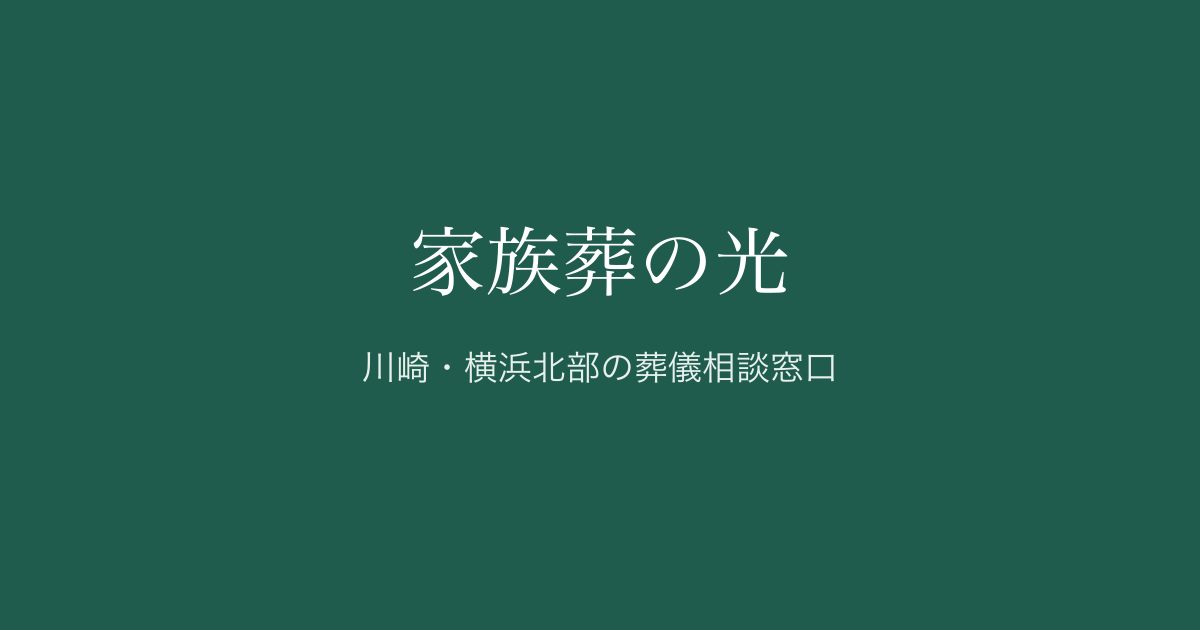
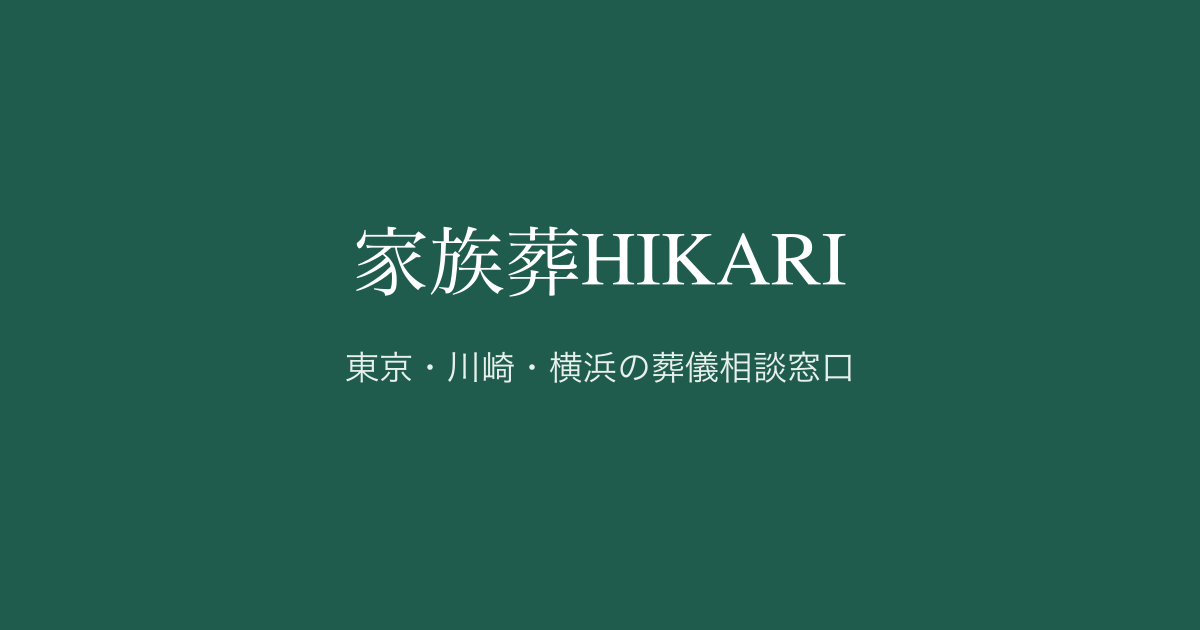
葬儀LPプレビュー更新: 屋号を家族葬HIKARIに変更（タイトル・ヘッダー・フッター・プライバシー・OGP画像）、FVバッジのスマホ改行崩れを修正

Changed region(s): [[0.2775, 0.3619, 0.7092, 0.4825], [0.2775, 0.5429, 0.7092, 0.6032]]

diff --git a/index.html b/index.html
@@ -3,11 +3,11 @@
 <head>
 <meta charset="UTF-8">
 <meta name="viewport" content="width=device-width, initial-scale=1.0">
-<title>東京・川崎・横浜の葬儀相談窓口｜家族葬光（24時間対応）</title>
+<title>東京・川崎・横浜の葬儀相談窓口｜家族葬HIKARI（24時間対応）</title>
 <meta name="description" content="東京都・川崎市・横浜市全域の葬儀相談窓口。火葬式・一日葬・家族葬の基本料金と、火葬待ちの日数を含めた「総額の目安」を先にお出しします。深夜・早朝も24時間ご相談を承ります。">
 <meta name="robots" content="noindex"><!-- ★検証中はnoindex。本公開時に外す -->
 <meta property="og:type" content="website">
-<meta property="og:title" content="東京・川崎・横浜の葬儀相談窓口｜家族葬光（24時間対応）">
+<meta property="og:title" content="東京・川崎・横浜の葬儀相談窓口｜家族葬HIKARI（24時間対応）">
 <meta property="og:description" content="火葬式・一日葬・家族葬の基本料金と、火葬待ちの日数を含めた総額の目安を先にお出しします。">
 <meta property="og:image" content="assets/img/ogp.png">
 <meta property="og:locale" content="ja_JP">
@@ -32,7 +32,7 @@
 
 <header class="hd">
   <div class="hd-in">
-    <div class="brand">家族葬光<small>東京都・川崎市・横浜市全域の葬儀相談窓口</small></div>
+    <div class="brand">家族葬HIKARI<small>東京都・川崎市・横浜市全域の葬儀相談窓口</small></div>
     <a class="hd-tel sans" href="tel:0000000000" data-cta="tel">
       <span class="num">0000&#8209;00&#8209;0000</span>
       <span class="cap">24時間365日・通話無料／深夜・早朝もつながります</span>
@@ -46,7 +46,7 @@
   <div class="wrap fv-grid">
     <div class="fv-copy">
       <h1><span class="ph">火葬まで待つ日数で</span><span class="ph">増える分も、</span><span class="ph em">先にお伝えします。</span></h1>
-      <p class="h1sub"><svg class="icon" aria-hidden="true"><use href="#icon-area"/></svg>東京都・川崎市・横浜市全域の葬儀相談窓口／<svg class="icon" aria-hidden="true"><use href="#icon-clock"/></svg>24時間365日・年中無休</p>
+      <p class="h1sub"><span class="h1sub-item"><svg class="icon" aria-hidden="true"><use href="#icon-area"/></svg><span>東京都・川崎市・横浜市全域の<span class="nowrap">葬儀相談窓口</span></span></span><span class="h1sub-sep">／</span><span class="h1sub-item"><svg class="icon" aria-hidden="true"><use href="#icon-clock"/></svg>24時間365日・年中無休</span></p>
       <p class="lead">火葬までお待ちいただく日数によって、ご葬儀の費用は変わります。当窓口は基本料金だけでなく、<strong>お待ちいただいた場合の総額の目安</strong>を最初にお出しします。深夜・早朝のご相談も承ります。</p>
     </div>
     <figure class="fv-visual">
@@ -400,7 +400,7 @@
       <li><a href="privacy.html">プライバシーポリシー</a></li>
       <li><a href="#operator">運営者情報</a></li>
     </ul>
-    <div>家族葬光（運営：株式会社ランバード）｜東京都・川崎市・横浜市全域の葬儀相談窓口<br>24時間365日受付　0000-00-0000</div>
+    <div>家族葬HIKARI（運営：株式会社ランバード）｜東京都・川崎市・横浜市全域の葬儀相談窓口<br>24時間365日受付　0000-00-0000</div>
   </div>
 </footer>
 

diff --git a/assets/css/style.css b/assets/css/style.css
@@ -620,7 +620,14 @@ footer{background:#26322e; padding-block:38px; font-size:14px;}
   width:fit-content; padding:9px 13px; border-radius:999px;
   background:rgba(255,255,255,.68); box-shadow:inset 0 0 0 1px rgba(29,91,75,.13);
 }
-.fv .h1sub .icon{width:16px; height:16px; margin-left:3px;}
+.fv .h1sub .icon{width:16px; height:16px; margin-left:3px; flex-shrink:0;}
+.fv .h1sub-item{display:inline-flex; align-items:center; gap:5px;}
+@media(max-width:767px){
+  .fv .h1sub{flex-direction:column; align-items:flex-start; gap:4px; border-radius:14px; font-size:13px; padding:8px 10px;}
+  .fv .h1sub .icon{margin-left:0;}
+  .fv .h1sub .nowrap{white-space:nowrap;}
+  .fv .h1sub-sep{display:none;}
+}
 .fv-visual{position:relative;}
 .fv-visual::after{
   content:""; position:absolute; inset:12px; pointer-events:none;

diff --git a/privacy.html b/privacy.html
@@ -4,14 +4,14 @@
   <meta charset="UTF-8">
   <meta name="viewport" content="width=device-width, initial-scale=1.0">
   <meta name="robots" content="noindex">
-  <title>プライバシーポリシー｜家族葬の光</title>
+  <title>プライバシーポリシー｜家族葬HIKARI</title>
   <link rel="icon" href="assets/img/favicon.ico" sizes="any">
   <link rel="stylesheet" href="assets/css/style.css">
 </head>
 <body>
   <header class="hd">
     <div class="hd-in">
-      <div class="brand">家族葬の光<small>川崎市・横浜市北部の葬儀相談窓口</small></div>
+      <div class="brand">家族葬HIKARI<small>東京都・川崎市・横浜市全域の葬儀相談窓口</small></div>
     </div>
   </header>
   <main>
